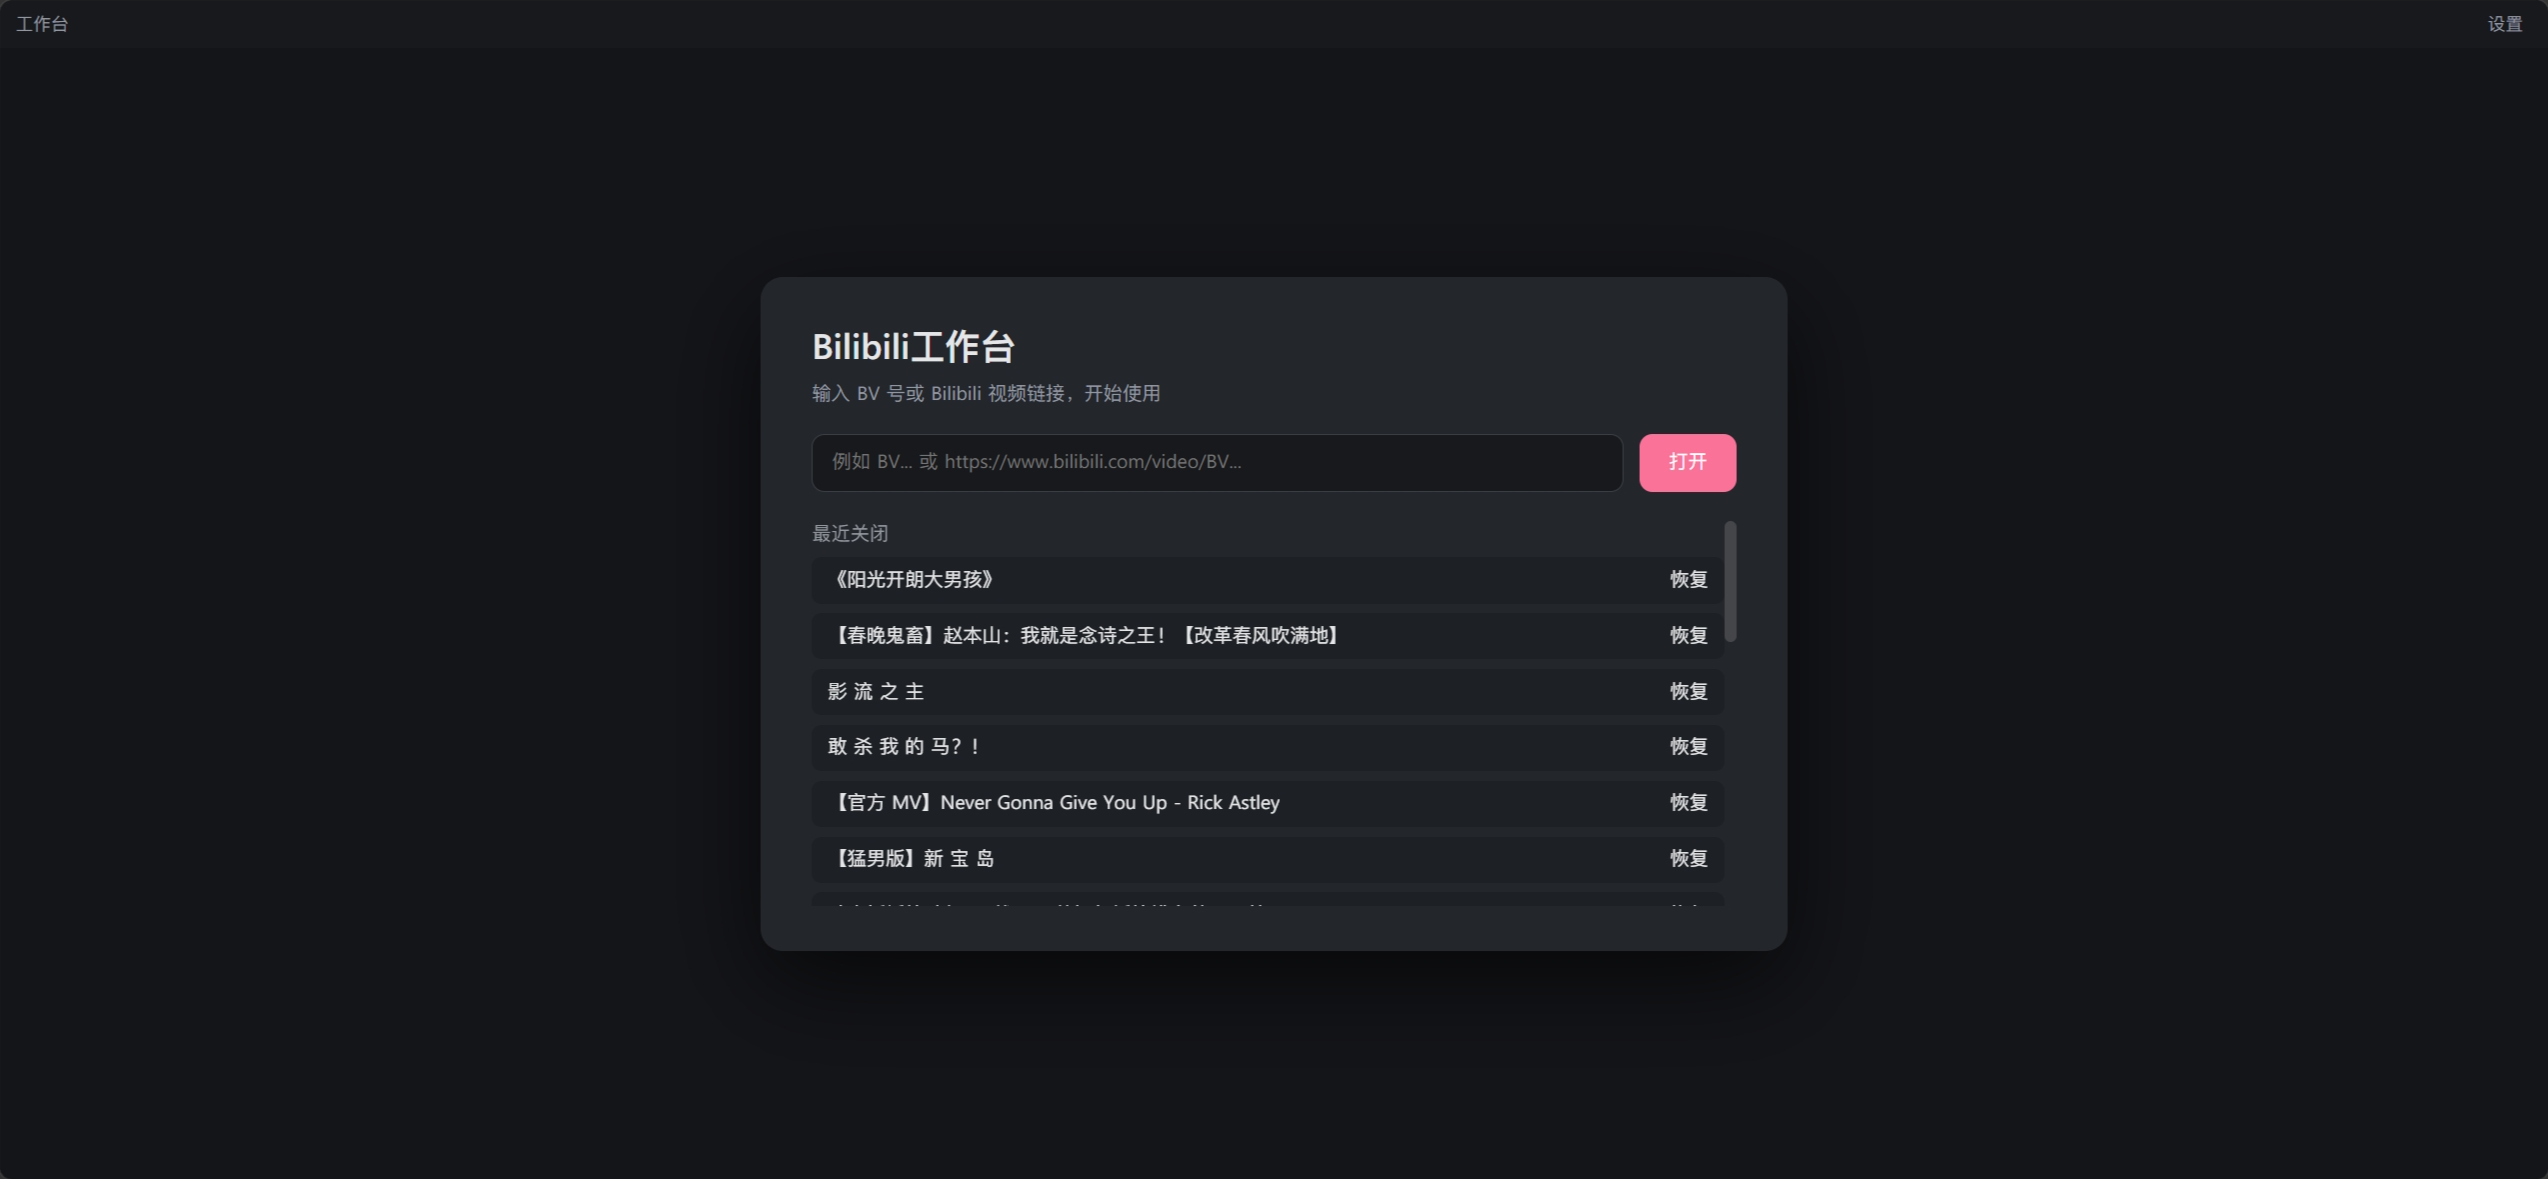
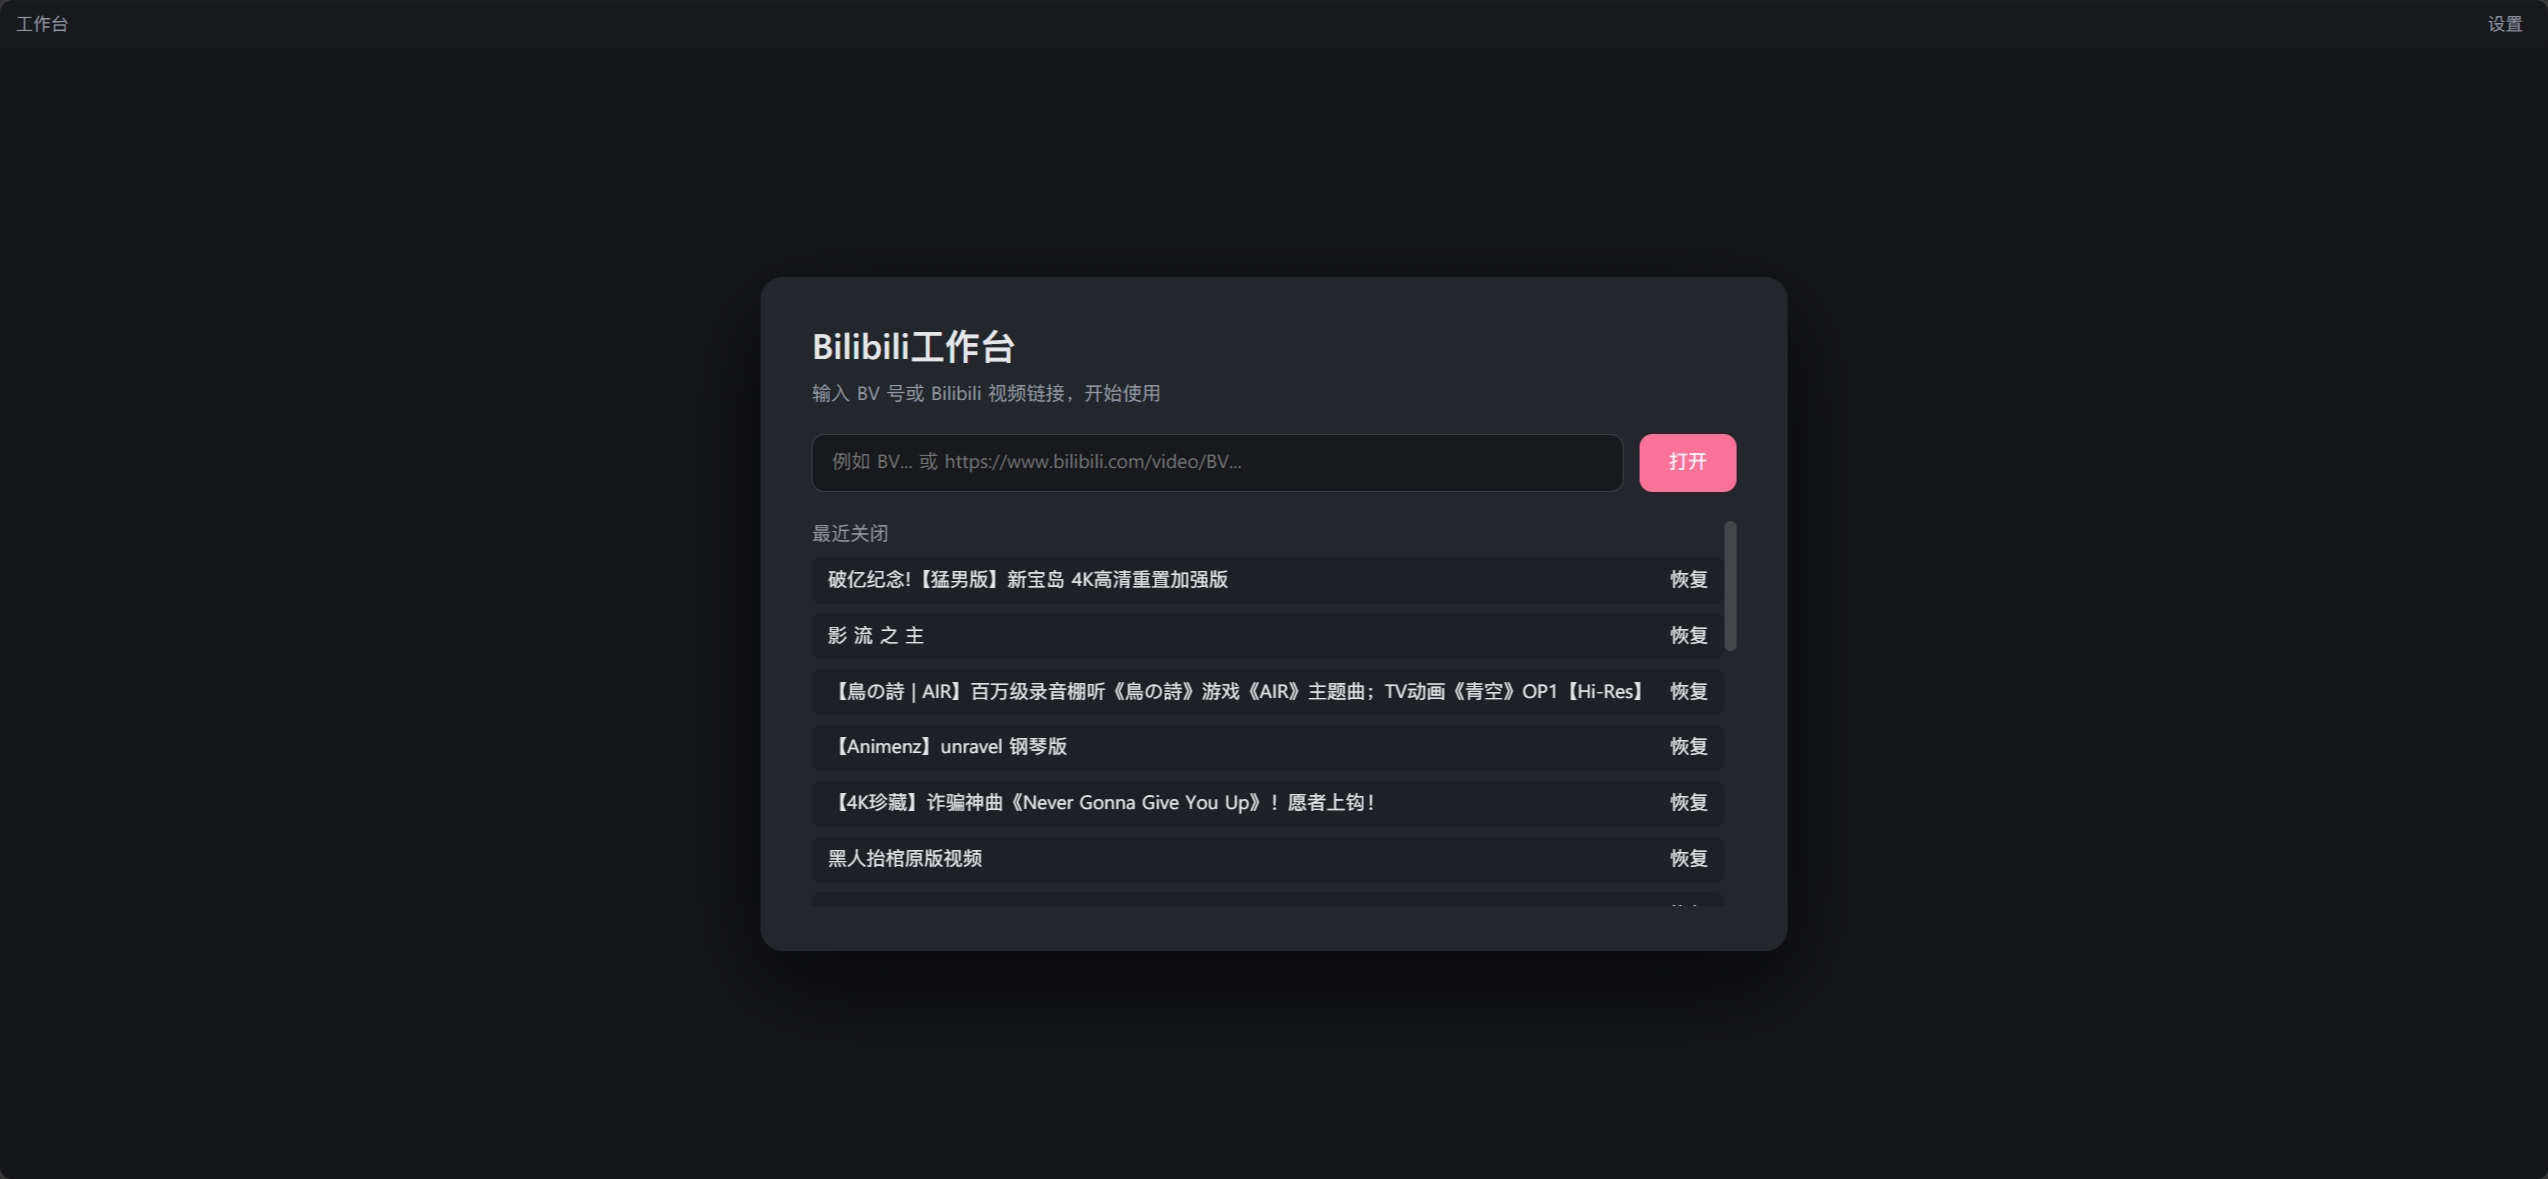
更新README示例图

Changed region(s): [[0.31, 0.5802, 0.6511, 0.6412], [0.31, 0.458, 0.5271, 0.5496], [0.31, 0.6718, 0.5581, 0.7328]]

diff --git a/README.md b/README.md
@@ -35,6 +35,8 @@
 - 🎨 **可配置**：标签栏文字/配色、标签宽度模式、点击修饰键、快捷键、网页全屏时隐藏标签栏、debug 日志等。
 - 🧩 **兼容 B站 生态**：页面是真的 B站 页面，所以 B站 自身的所有界面/交互，以及各种 B站 相关扩展（如 BewlyBewly）都不受影响。
 
+![垂直标签页](assets/screenshot-drawer.png)
+
 ![空白工作台](assets/screenshot-blank.png)
 
 ## 性能数据
